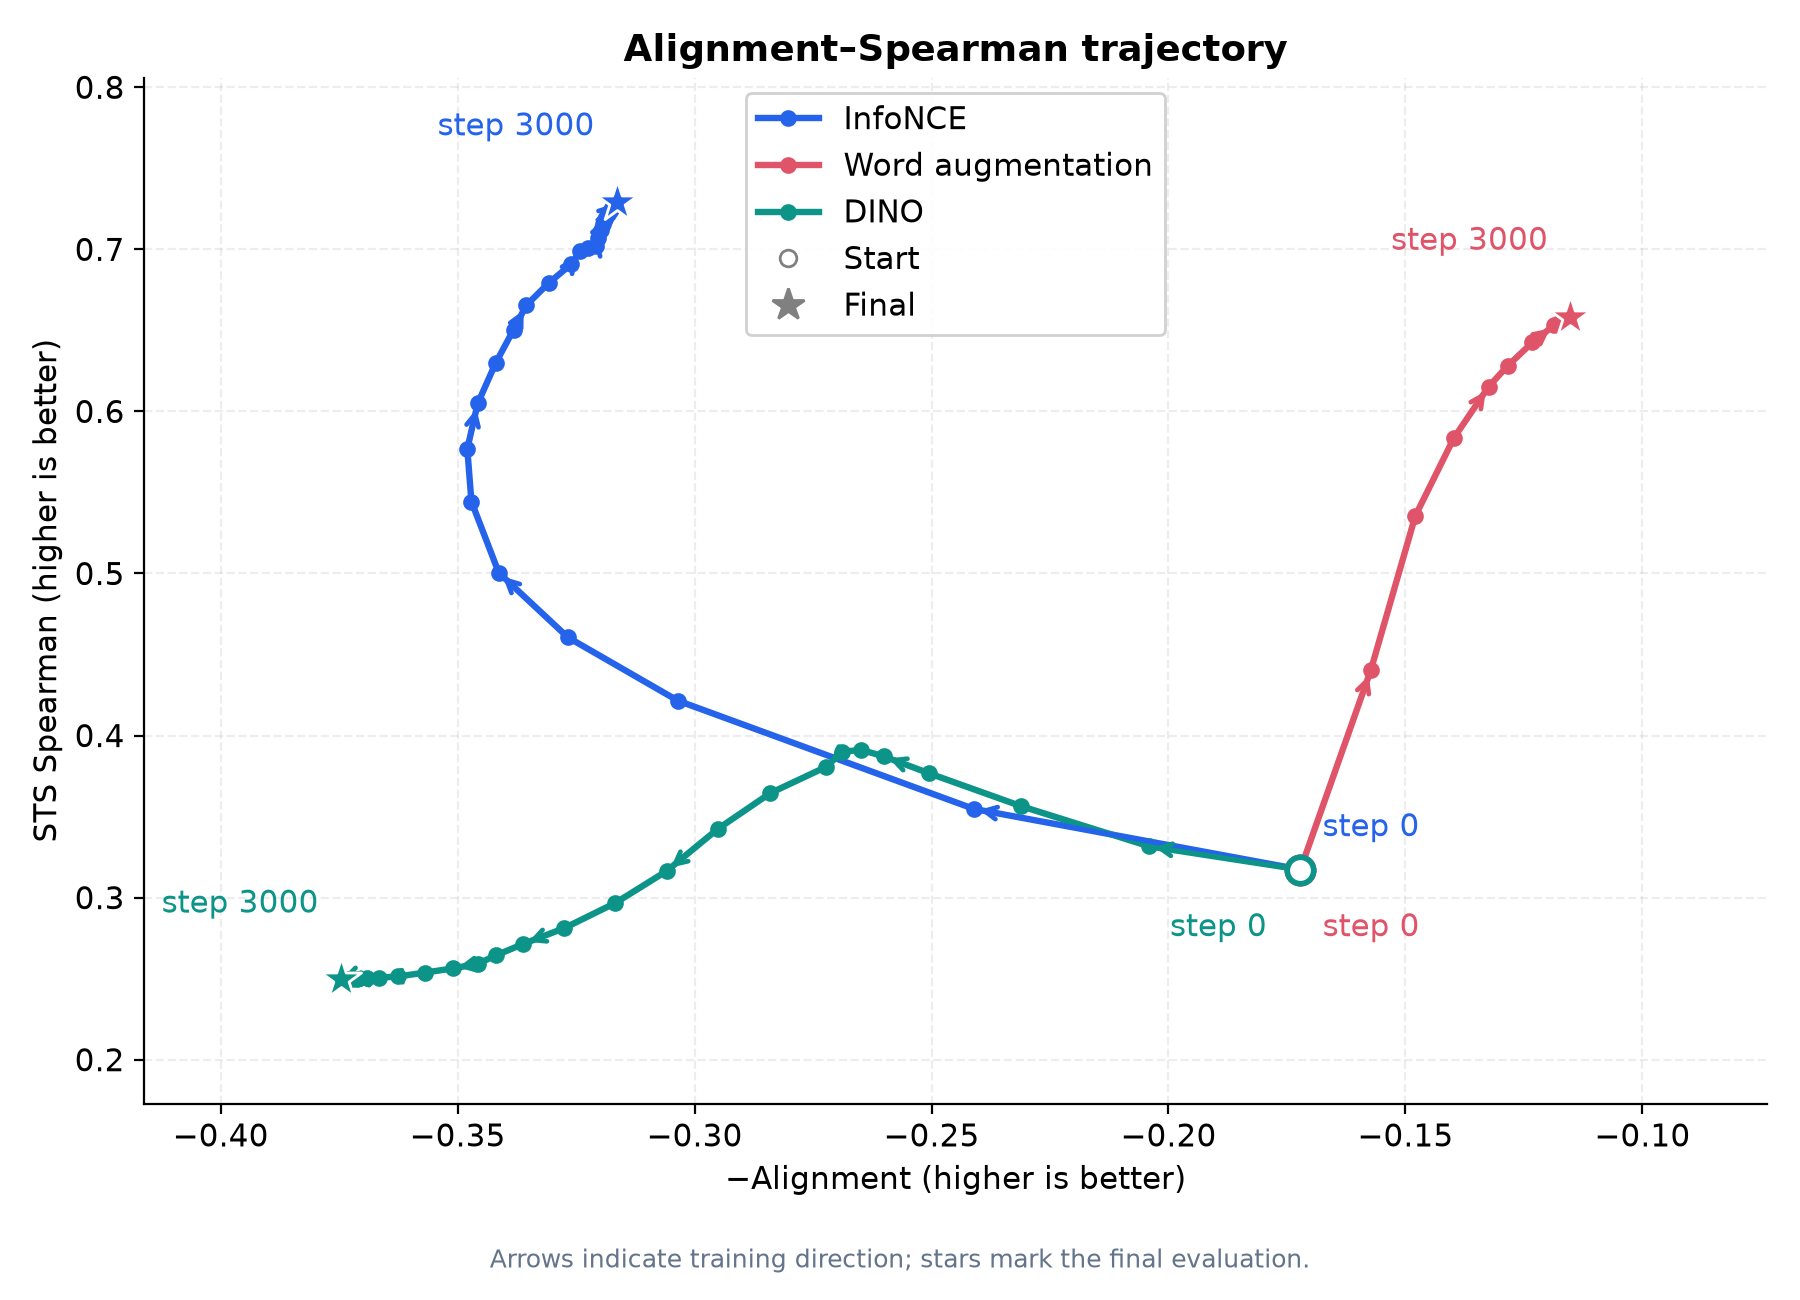
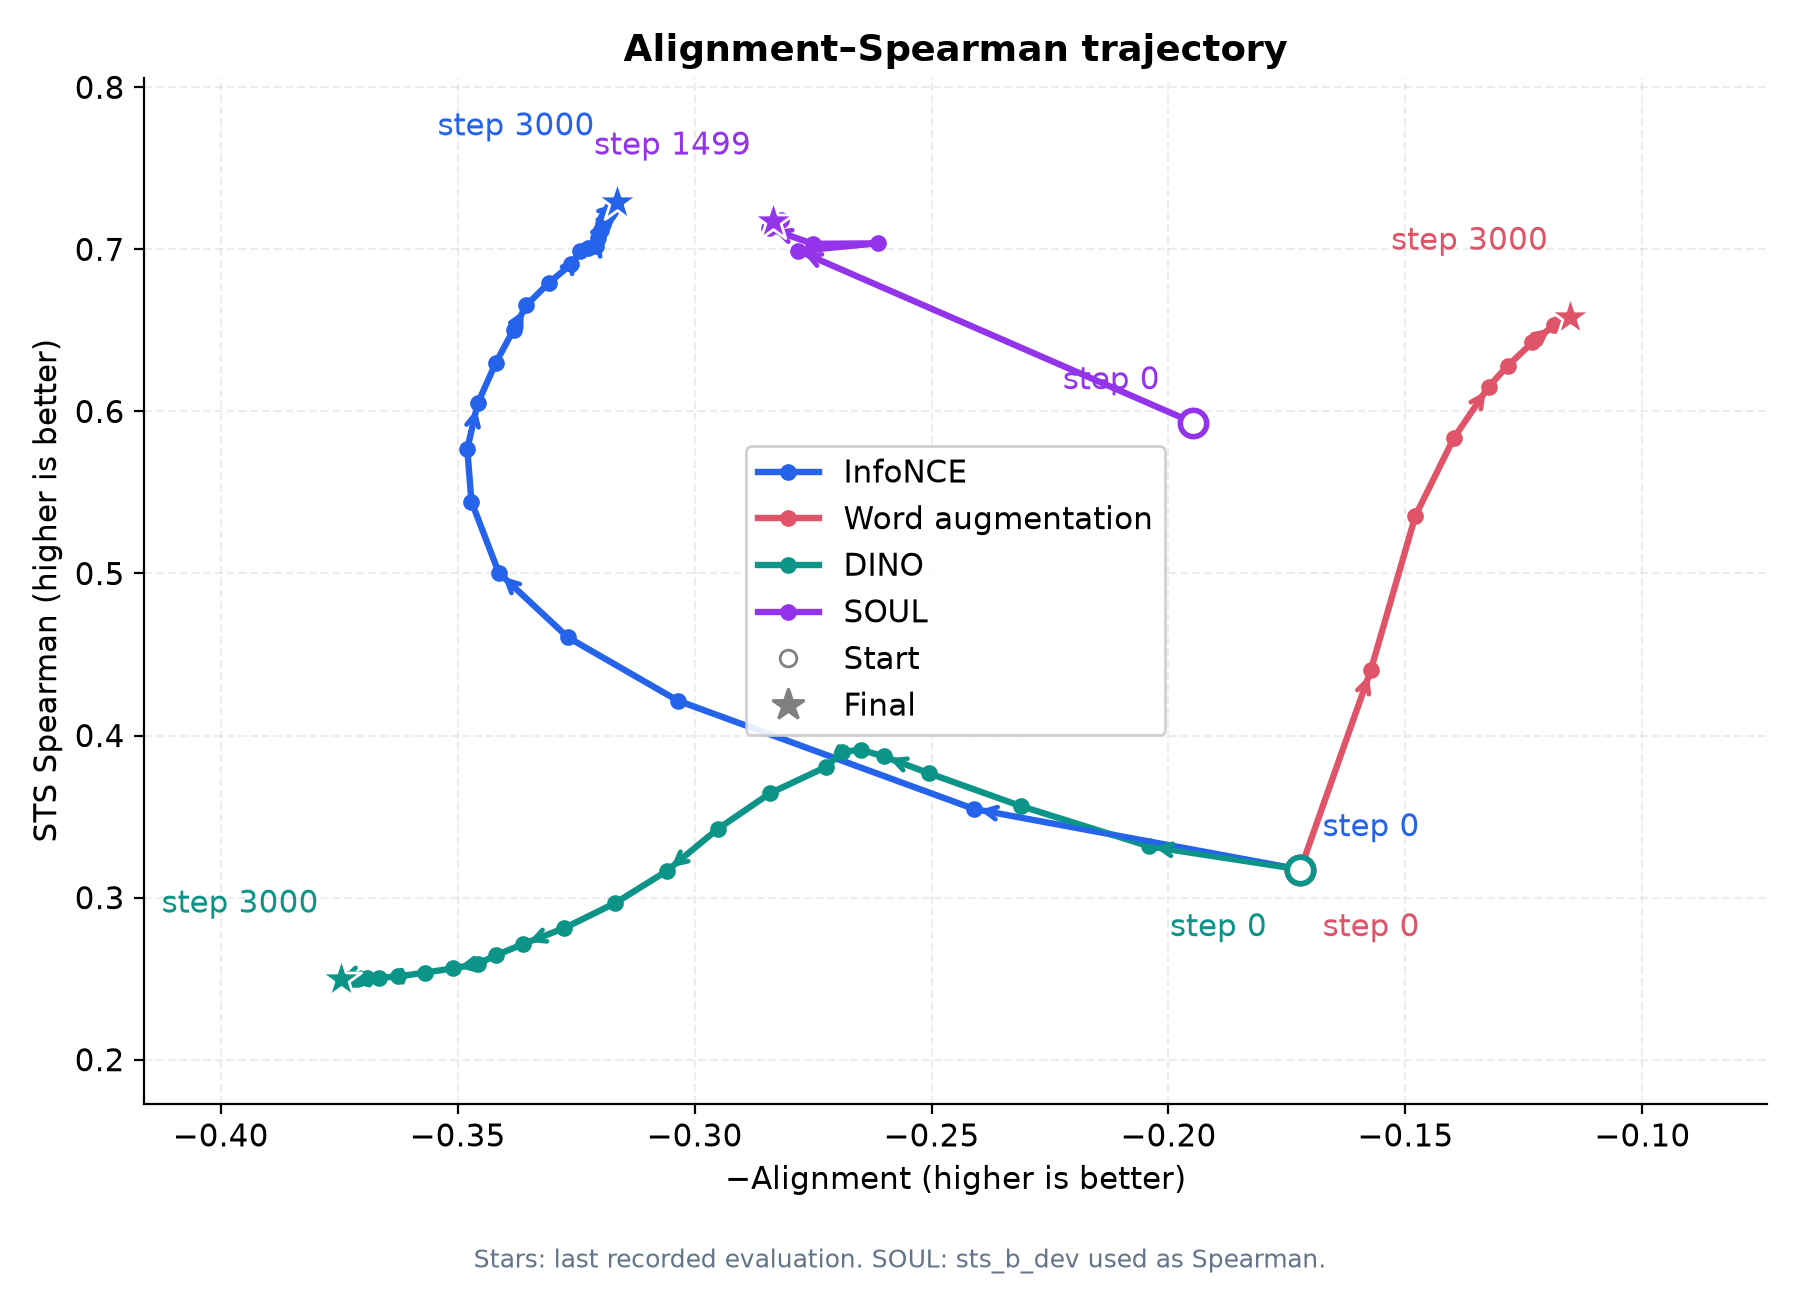
add center schedual

diff --git a/tests/test_training.py b/tests/test_training.py
@@ -13,6 +13,7 @@ from minimal_dino.objective import BYOLLoss
 from minimal_dino.train import (
     DEFAULT_MODEL_REVISION,
     _print_progress,
+    cosine_center_scale,
     cosine_teacher_momentum,
     load_max_logged_metric,
     log_metrics,
@@ -45,10 +46,13 @@ class TinyEncoder(nn.Module):
 
 
 @pytest.mark.parametrize("objective", ["byol", "infonce"])
+@pytest.mark.parametrize("resume_step", [0, 1])
 @pytest.mark.parametrize(
     "augmentations", [["dropout"], ["word"], ["word", "dropout"], ["dropout", "word"]]
 )
-def test_training_applies_selected_augmentations(tmp_path, monkeypatch, objective, augmentations):
+def test_training_applies_selected_augmentations(
+    tmp_path, monkeypatch, objective, augmentations, resume_step
+):
     from minimal_dino.config import to_train_args
     from minimal_dino.train import train
 
@@ -64,19 +68,33 @@ def test_training_applies_selected_augmentations(tmp_path, monkeypatch, objectiv
                 "data.num_workers=0",
                 "runtime.device=cpu",
                 f"runtime.output_dir={tmp_path / 'run'}",
-                "optimization.max_steps=1",
+                "++optimization.max_steps=3",
+                "optimization.epochs=3",
                 "optimization.encoder_freeze_steps=0",
                 "evaluation.steps=0",
                 "checkpoint.save_steps=0",
                 "logging.tensorboard=false",
+                "logging.steps=1",
                 "model.projection_dim=4",
                 "model.projector_hidden_dim=16",
                 "model.predictor_hidden_dim=12",
             ],
         )
     args = to_train_args(config)
+    args.center_scale_start = 0.1
+    args.center_scale_end = 0.5
+    if resume_step:
+        args.resume_from_checkpoint = "mock-checkpoint.pt"
+        monkeypatch.setattr("minimal_dino.train.restore_checkpoint", lambda *a: resume_step)
     forwards = []
     augmented_sentences = []
+    target_scales = []
+
+    class RecordingModel(SentenceBYOL):
+        def forward(self, *a, **kwargs):
+            if kwargs.get("center") is not None:
+                target_scales.append(kwargs["center_scale"])
+            return super().forward(*a, **kwargs)
 
     class RecordingEncoder(TinyEncoder):
         def forward(self, input_ids, attention_mask, return_dict=True):
@@ -92,7 +110,7 @@ def test_training_applies_selected_augmentations(tmp_path, monkeypatch, objectiv
     def build_model(*unused, **kwargs):
         encoder = RecordingEncoder()
         encoder.dropout.p = kwargs["dropout"]
-        return SentenceBYOL(
+        return RecordingModel(
             encoder, projection_dim=4, projector_hidden_dim=16, predictor_hidden_dim=12
         )
 
@@ -112,22 +130,37 @@ def test_training_applies_selected_augmentations(tmp_path, monkeypatch, objectiv
 
     has_word = "word" in augmentations
     has_dropout = "dropout" in augmentations
-    student_forwards, teacher_forwards = forwards[:-2], forwards[-2:]
-    assert len(augmented_sentences) == (6 if has_word else 0)
+    steps = 3 - resume_step
+    forwards_per_step = 3 if objective == "byol" and not has_word else 4
+    assert len(forwards) == forwards_per_step * steps
+    assert len(augmented_sentences) == (6 * steps if has_word else 0)
     assert all(enabled == has_dropout for _, enabled, _ in forwards)
-    assert all(rate == args.dropout for _, _, rate in student_forwards)
-    if has_dropout:
-        assert all(rate == args.target_dropout for _, _, rate in teacher_forwards)
-    if has_word:
-        assert len(student_forwards) == 2
-        assert student_forwards[0][0].shape[1] != student_forwards[1][0].shape[1]
-        for student_forward, teacher_forward in zip(student_forwards, teacher_forwards):
-            assert torch.equal(student_forward[0], teacher_forward[0])
+    for offset in range(0, len(forwards), forwards_per_step):
+        batch_forwards = forwards[offset : offset + forwards_per_step]
+        student_forwards, teacher_forwards = batch_forwards[:-2], batch_forwards[-2:]
+        assert all(rate == args.dropout for _, _, rate in student_forwards)
+        if has_dropout:
+            assert all(rate == args.target_dropout for _, _, rate in teacher_forwards)
+        if has_word:
+            assert len(student_forwards) == 2
+            assert student_forwards[0][0].shape[1] != student_forwards[1][0].shape[1]
+            for student_forward, teacher_forward in zip(student_forwards, teacher_forwards):
+                assert torch.equal(student_forward[0], teacher_forward[0])
+        else:
+            assert all(ids.shape[1] == 3 for ids, _, _ in batch_forwards)
+    metrics = [
+        json.loads(line)
+        for line in (tmp_path / "run" / "metrics.jsonl").read_text().splitlines()
+    ]
+    assert [record["step"] for record in metrics] == list(range(resume_step + 1, 4))
+    assert all(torch.isfinite(torch.tensor(record["loss"])) for record in metrics)
+    if objective == "byol":
+        expected_scales = [0.1, 0.3, 0.5][resume_step:]
+        assert target_scales == pytest.approx([s for s in expected_scales for _ in range(2)])
+        assert [record["center_scale"] for record in metrics] == pytest.approx(expected_scales)
     else:
-        assert all(ids.shape[1] == 3 for ids, _, _ in forwards)
-    metrics = json.loads((tmp_path / "run" / "metrics.jsonl").read_text())
-    assert metrics["step"] == 1
-    assert torch.isfinite(torch.tensor(metrics["loss"]))
+        assert target_scales == []
+        assert all("center_scale" not in record for record in metrics)
 
 
 def test_one_step_smoke_has_student_gradients_no_teacher_gradients_and_ema():
@@ -171,6 +204,49 @@ def test_teacher_momentum_cosine_schedule_reaches_one():
     assert values[0] == 0.996
     assert values[-1] == 1.0
     assert values == sorted(values)
+
+
+@pytest.mark.parametrize(
+    "start,end,expected",
+    [(0.0, 1.0, [0.0, 0.1464466094, 0.5, 0.8535533906, 1.0]),
+     (1.0, 0.0, [1.0, 0.8535533906, 0.5, 0.1464466094, 0.0]),
+     (0.2, 0.2, [0.2, 0.2, 0.2, 0.2, 0.2])],
+)
+def test_cosine_center_scale(start, end, expected):
+    assert [cosine_center_scale(t, 5, start, end) for t in range(5)] == pytest.approx(expected)
+    assert cosine_center_scale(0, 1, start, end) == start
+
+
+@pytest.mark.parametrize(
+    "overrides,expected",
+    [
+        (["objective.center_scale=0.25"], (0.25, 0.25)),
+        (["objective.center_scale_start=0.1"], (0.1, 0.1)),
+        (["objective.center_scale=0.25", "objective.center_scale_end=0.5"], (0.25, 0.5)),
+        (["objective.center_scale_start=0.5", "objective.center_scale_end=0.0"], (0.5, 0.0)),
+    ],
+)
+def test_center_scale_schedule_config(overrides, expected):
+    from minimal_dino.config import to_train_args
+
+    with initialize_config_module(version_base="1.3", config_module="minimal_dino.conf"):
+        args = to_train_args(compose(
+            config_name="config",
+            overrides=["objective.center_scale_start=null", "objective.center_scale_end=null"]
+            + overrides,
+        ))
+    assert (args.center_scale_start, args.center_scale_end) == expected
+
+
+@pytest.mark.parametrize("field", ["center_scale", "center_scale_start", "center_scale_end"])
+@pytest.mark.parametrize("value", ["-0.1", "true", "bad", ".nan", ".inf"])
+def test_center_scale_config_rejects_invalid_values(field, value):
+    from minimal_dino.config import to_train_args
+
+    with initialize_config_module(version_base="1.3", config_module="minimal_dino.conf"):
+        config = compose(config_name="config", overrides=[f"objective.{field}={value}"])
+    with pytest.raises(ValueError, match=f"objective.{field}"):
+        to_train_args(config)
 
 
 def test_encoder_can_be_frozen_without_freezing_byol_head():
@@ -443,7 +519,7 @@ def test_hydra_config_groups_compose_and_translate_to_training_args():
     alternate_args = to_train_args(alternate_config)
 
     assert default_args.objective == "byol"
-    assert default_args.augmentation == ["word", "dropout"]
+    assert default_args.augmentation == list(default_config.augmentation.names)
     assert default_args.quiet is True
     assert default_args.tensorboard is True
     assert default_args.byol_precision == "bf16"
@@ -463,7 +539,7 @@ def test_hydra_config_groups_compose_and_translate_to_training_args():
     assert default_args.encoder_freeze_steps == default_config.optimization.encoder_freeze_steps
     assert default_args.max_length == 256
     assert default_args.num_workers == default_config.data.num_workers
-    assert default_args.max_steps == default_config.optimization.max_steps
+    assert default_args.max_steps == default_config.optimization.get("max_steps")
     assert default_args.eval_steps == default_config.evaluation.steps
     assert alternate_args.objective == "infonce"
     assert alternate_args.infonce_temp == 0.2

diff --git a/src/minimal_dino/train.py b/src/minimal_dino/train.py
@@ -213,6 +213,15 @@ def cosine_teacher_momentum(step: int, total_steps: int, base_momentum: float) -
     return 1.0 - (1.0 - base_momentum) * (math.cos(math.pi * progress) + 1.0) / 2.0
 
 
+def cosine_center_scale(step: int, total_steps: int, start: float, end: float) -> float:
+    """Cosine-interpolate across optimizer steps, using start for a one-step run."""
+    if total_steps <= 1:
+        return start
+    progress = step / (total_steps - 1)
+    weight = (1.0 - math.cos(math.pi * progress)) / 2.0
+    return (1.0 - weight) * start + weight * end
+
+
 def set_encoder_trainable(model: SentenceBYOL, trainable: bool) -> None:
     """Freeze or unfreeze only the online encoder, leaving the BYOL head trainable."""
     model.encoder.requires_grad_(trainable)
@@ -534,6 +543,9 @@ def train(
                 set_encoder_trainable(student, True)
             completed_step = global_step + 1
             should_log = completed_step == 1 or completed_step % args.log_steps == 0
+            center_scale = cosine_center_scale(
+                global_step, total_steps, args.center_scale_start, args.center_scale_end
+            )
             with torch.autocast(
                 device_type=device.type,
                 dtype=torch.bfloat16,
@@ -568,7 +580,7 @@ def train(
                                 dropout_probability=args.target_dropout,
                                 target=True,
                                 center=objective.center,
-                                center_scale=args.center_scale,
+                                center_scale=center_scale,
                             )
                             teacher_view2 = teacher(
                                 **batch,
@@ -576,7 +588,7 @@ def train(
                                 dropout_probability=args.target_dropout,
                                 target=True,
                                 center=objective.center,
-                                center_scale=args.center_scale,
+                                center_scale=center_scale,
                             )
                     else:
                         # Keep the existing InfoNCE execution path unchanged.
@@ -612,7 +624,7 @@ def train(
                             dropout_probability=args.target_dropout,
                             target=True,
                             center=objective.center if isinstance(objective, BYOLLoss) else None,
-                            center_scale=args.center_scale,
+                            center_scale=center_scale,
                         )
                         teacher_view2 = teacher(
                             **view2,
@@ -620,7 +632,7 @@ def train(
                             dropout_probability=args.target_dropout,
                             target=True,
                             center=objective.center if isinstance(objective, BYOLLoss) else None,
-                            center_scale=args.center_scale,
+                            center_scale=center_scale,
                         )
 
                 if isinstance(objective, BYOLLoss):
@@ -710,6 +722,8 @@ def train(
                     "pairwise_cosine": pairwise_cosine.item(),
                     **{name: value.item() for name, value in loss_metrics.items()},
                 }
+                if isinstance(objective, BYOLLoss):
+                    log["center_scale"] = center_scale
                 log_metrics(
                     args.output_dir,
                     log,

diff --git a/plots/dropout_vs_word_aug/plot.py b/plots/dropout_vs_word_aug/plot.py
@@ -1,5 +1,6 @@
 """Recreate trajectory figures from the recorded evaluation metrics."""
 import json
+import re
 from pathlib import Path
 
 import matplotlib
@@ -15,11 +16,23 @@ RUNS = {
     "Word augmentation": ROOT / "runs/cls_polling",
     "DINO": ROOT / "archive/check_trajectory_dino_fin",
 }
-COLORS = ["#2563eb", "#e05469", "#0d9488"]
+COLORS = ["#2563eb", "#e05469", "#0d9488", "#9333ea"]
 records = {}
 for label, folder in RUNS.items():
     rows = [json.loads(line) for line in (folder / "metrics.jsonl").read_text().splitlines() if line.strip()]
     records[label] = sorted((r for r in rows if "sts_spearman" in r), key=lambda r: r["step"])
+
+soul_rows = []
+for line in (ROOT / "runs/soul/train_.log").read_text().splitlines():
+    match = re.match(r"\[step (\d+)\] EVAL (.*)", line)
+    if match:
+        values = {key: float(value) for key, value in re.findall(
+            r"(\w+)=([-+]?\d*\.?\d+(?:[eE][-+]?\d+)?)", match[2]
+        )}
+        soul_rows.append({"step": int(match[1]), "sts_spearman": values["sts_b_dev"],
+                          "alignment": values["alignment"], "uniformity": values["uniformity"]})
+records["SOUL"] = sorted(soul_rows, key=lambda r: r["step"])
+print(f"SOUL: {len(soul_rows)} evaluations, steps {soul_rows[0]['step']}–{soul_rows[-1]['step']}")
 
 plt.rcParams.update({"font.size": 11, "axes.spines.top": False, "axes.spines.right": False,
                      "axes.titleweight": "bold", "figure.facecolor": "white"})
@@ -52,7 +65,7 @@ for xkey, ykey, filename, title in [
         for i in range(0, len(points)-1, 3):
             ax.annotate("", xy=(x[i+1], y[i+1]), xytext=(x[i], y[i]),
                         arrowprops={"arrowstyle": "->", "color": color, "lw": 1.7})
-        start_offset = [(8, 12), (8, -24), (-12, -24)][run_index]
+        start_offset = [(8, 12), (8, -24), (-12, -24), (-12, 12)][run_index]
         for i, offset in [(0, start_offset), (len(points)-1, (-8, 24))]:
             ax.annotate(f"step {points[i]['step']}", (x[i], y[i]), xytext=offset,
                         textcoords="offset points", ha="left" if offset[0] > 0 else "right", color=color)
@@ -63,7 +76,7 @@ for xkey, ykey, filename, title in [
     handles += [Line2D([], [], marker="o", color="gray", markerfacecolor="white", linestyle="", label="Start"),
                 Line2D([], [], marker="*", color="gray", markersize=12, linestyle="", label="Final")]
     ax.legend(handles=handles, loc="best", framealpha=0.9)
-    fig.text(0.5, 0.025, "; ".join(missing) if missing else "Arrows indicate training direction; stars mark the final evaluation.",
+    fig.text(0.5, 0.025, "; ".join(missing) if missing else "Stars: last recorded evaluation. SOUL: sts_b_dev used as Spearman.",
              ha="center", fontsize=9, color="#64748b")
     finish(fig, ax, filename)
 
@@ -72,7 +85,7 @@ for (label, rows), color in zip(records.items(), COLORS):
     ax.plot([r["step"] for r in rows], [r["sts_spearman"] for r in rows], "o-", color=color, lw=2.3, label=label)
 ax.set(xlabel="Training step", ylabel="STS Spearman", title="Spearman over training")
 ax.legend()
-fig.text(0.5, 0.025, "Recorded evaluations only; all runs start at step 0.",
+fig.text(0.5, 0.025, "Recorded evaluations only. SOUL: sts_b_dev used as Spearman; last step 1499.",
          ha="center", fontsize=9, color="#64748b")
 finish(fig, ax, "spearman_steps.png")
 print(f"Saved four plots to {OUT}")

diff --git a/src/minimal_dino/config.py b/src/minimal_dino/config.py
@@ -1,5 +1,6 @@
 from __future__ import annotations
 
+import math
 from types import SimpleNamespace
 from typing import Any
 
@@ -70,12 +71,24 @@ def to_train_args(config: DictConfig) -> SimpleNamespace:
     ):
         raise ValueError("objective.center_momentum must be in [0, 1)")
     center_scale = objective.get("center_scale", 0.5)
-    if (
-        isinstance(center_scale, bool)
-        or not isinstance(center_scale, (int, float))
-        or center_scale < 0.0
+    center_scale_start = objective.get("center_scale_start")
+    if center_scale_start is None:
+        center_scale_start = center_scale
+    center_scale_end = objective.get("center_scale_end")
+    if center_scale_end is None:
+        center_scale_end = center_scale_start
+    for name, value in (
+        ("center_scale", center_scale),
+        ("center_scale_start", center_scale_start),
+        ("center_scale_end", center_scale_end),
     ):
-        raise ValueError("objective.center_scale must be a non-negative number")
+        if (
+            isinstance(value, bool)
+            or not isinstance(value, (int, float))
+            or not math.isfinite(value)
+            or value < 0.0
+        ):
+            raise ValueError(f"objective.{name} must be a finite non-negative number")
 
     device = runtime["device"]
     if device == "auto":
@@ -101,9 +114,11 @@ def to_train_args(config: DictConfig) -> SimpleNamespace:
         objective=objective["name"],
         center_momentum=center_momentum,
         center_scale=center_scale,
+        center_scale_start=center_scale_start,
+        center_scale_end=center_scale_end,
         infonce_temp=objective.get("temperature", 0.05),
         epochs=optimization["epochs"],
-        max_steps=optimization["max_steps"],
+        max_steps=optimization.get("max_steps"),
         batch_size=optimization["batch_size"],
         encoder_learning_rate=optimization["encoder_learning_rate"],
         head_learning_rate=optimization["head_learning_rate"],

diff --git a/README.md b/README.md
@@ -52,9 +52,26 @@ independent warmup and linear decay through the shared scheduler.
 
 The raw target embedding is centered before it enters the projector. The center is an EMA of
 previous target-embedding batch means and is updated only after computing each batch loss. Configure
-its decay with `objective.center_momentum` (default `0.99`) and the multiplier applied before subtraction with
-`objective.center_scale` (default `0.5`); the center is stored in checkpoints and its norm is logged
-as `center_norm`.
+its decay with `objective.center_momentum` and the multiplier applied before subtraction with
+`objective.center_scale` (default `0.05`). For a cosine schedule, set the initial and final multipliers:
+
+```bash
+source .venv/bin/activate
+uv run python -m minimal_dino.train \
+  objective.center_scale_start=0.05 \
+  objective.center_scale_end=0.5
+```
+
+For zero-based step `t` and total optimizer steps `T`, the multiplier is
+`start + (end - start) * (1 - cos(pi * t / (T - 1))) / 2`:
+the first step uses `start` and the last uses `end`, with a smooth transition near both endpoints.
+The schedule includes encoder-freeze steps and respects the epoch and `optimization.max_steps`
+limits. A one-step run uses `start`. Increasing and decreasing schedules are supported.
+An unset (`null`) start falls back to `center_scale`; an unset end falls back to the start,
+preserving fixed-scale runs and existing tuning defaults. Resume uses the restored global step;
+keep the endpoints and total training schedule unchanged when resuming. The scale used for each
+logged BYOL step is recorded as `center_scale` in JSONL and `train/center_scale` in TensorBoard.
+The center itself is stored in checkpoints and its norm is logged as `center_norm`.
 
 The default `augmentation=word_dropout` combines two independently word-augmented views with
 independent encoder dropout masks. Online views use `model.dropout`; target views use independent,
